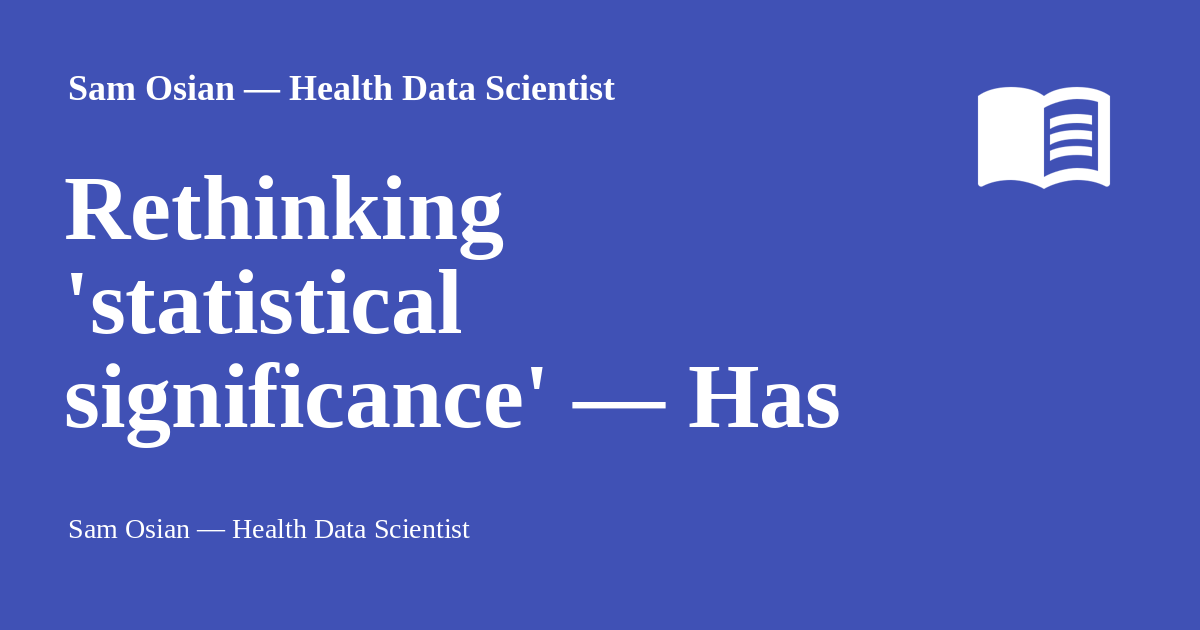
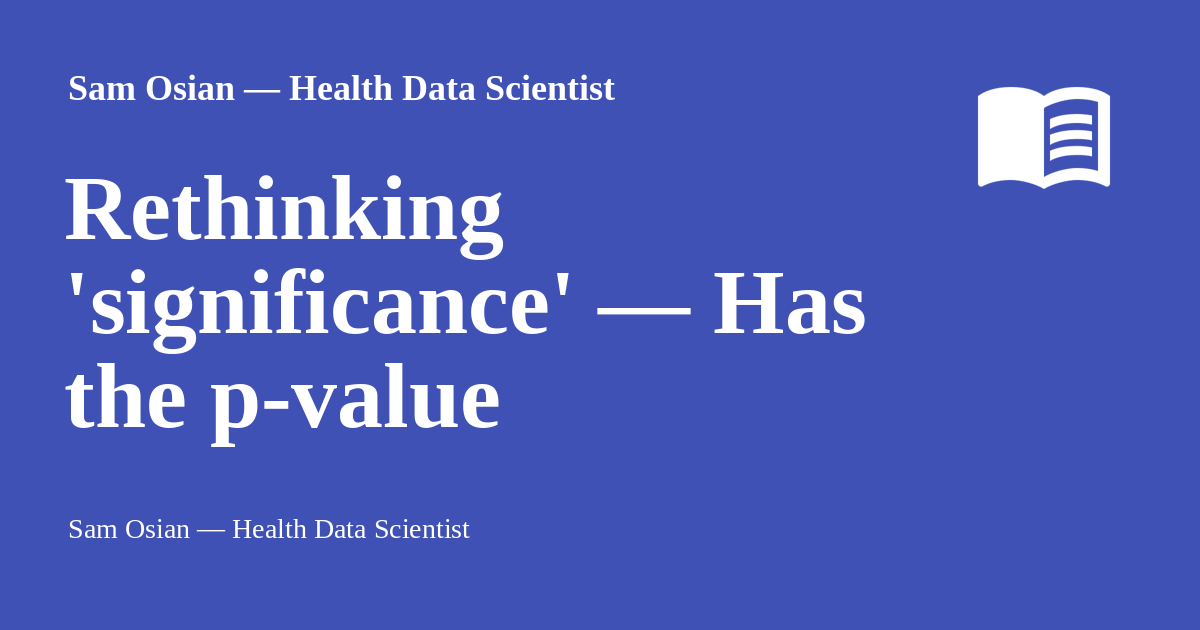
Deployed c87611d with MkDocs version: 1.6.1

diff --git a/rethinking-significance/index.html b/rethinking-significance/index.html
@@ -12,27 +12,27 @@
         <meta name="author" content="Sam Osian">
       
       
-        <link rel="canonical" href="https://sam-osian.com/2025/07/14/rethinking-statistical-significance/">
+        <link rel="canonical" href="https://sam-osian.com/rethinking-significance/">
       
       
       
       
-        <link rel="alternate" type="application/rss+xml" title="RSS feed" href="../../../../feed_rss_created.xml">
-        <link rel="alternate" type="application/rss+xml" title="RSS feed of updated content" href="../../../../feed_rss_updated.xml">
+        <link rel="alternate" type="application/rss+xml" title="RSS feed" href="../feed_rss_created.xml">
+        <link rel="alternate" type="application/rss+xml" title="RSS feed of updated content" href="../feed_rss_updated.xml">
       
-      <link rel="icon" href="../../../../favicon.png">
+      <link rel="icon" href="../favicon.png">
       <meta name="generator" content="mkdocs-1.6.1, mkdocs-material-9.6.15">
     
     
       
-        <title>Rethinking 'statistical significance' — Has the p-value overstayed its welcome? - Sam Osian — Health Data Scientist</title>
+        <title>Rethinking 'significance' — Has the p-value overstayed its welcome? - Sam Osian — Health Data Scientist</title>
       
     
     
-      <link rel="stylesheet" href="../../../../assets/stylesheets/main.342714a4.min.css">
+      <link rel="stylesheet" href="../assets/stylesheets/main.342714a4.min.css">
       
         
-        <link rel="stylesheet" href="../../../../assets/stylesheets/palette.06af60db.min.css">
+        <link rel="stylesheet" href="../assets/stylesheets/palette.06af60db.min.css">
       
       
 
@@ -51,9 +51,9 @@
       
     
     
-      <link rel="stylesheet" href="../../../../stylesheets/extra.css">
+      <link rel="stylesheet" href="../stylesheets/extra.css">
     
-    <script>__md_scope=new URL("../../../..",location),__md_hash=e=>[...e].reduce(((e,_)=>(e<<5)-e+_.charCodeAt(0)),0),__md_get=(e,_=localStorage,t=__md_scope)=>JSON.parse(_.getItem(t.pathname+"."+e)),__md_set=(e,_,t=localStorage,a=__md_scope)=>{try{t.setItem(a.pathname+"."+e,JSON.stringify(_))}catch(e){}}</script>
+    <script>__md_scope=new URL("..",location),__md_hash=e=>[...e].reduce(((e,_)=>(e<<5)-e+_.charCodeAt(0)),0),__md_get=(e,_=localStorage,t=__md_scope)=>JSON.parse(_.getItem(t.pathname+"."+e)),__md_set=(e,_,t=localStorage,a=__md_scope)=>{try{t.setItem(a.pathname+"."+e,JSON.stringify(_))}catch(e){}}</script>
     
       
 
@@ -64,7 +64,7 @@
       
         <meta  property="og:type"  content="website" >
       
-        <meta  property="og:title"  content="Rethinking 'statistical significance' — Has the p-value overstayed its welcome? - Sam Osian — Health Data Scientist" >
+        <meta  property="og:title"  content="Rethinking 'significance' — Has the p-value overstayed its welcome? - Sam Osian — Health Data Scientist" >
       
         <meta  property="og:description"  content="Sam Osian — Health Data Scientist" >
       
@@ -76,11 +76,11 @@
       
         <meta  property="og:image:height"  content="630" >
       
-        <meta  property="og:url"  content="https://sam-osian.com/2025/07/14/rethinking-statistical-significance/" >
+        <meta  property="og:url"  content="https://sam-osian.com/rethinking-significance/" >
       
         <meta  name="twitter:card"  content="summary_large_image" >
       
-        <meta  name="twitter:title"  content="Rethinking 'statistical significance' — Has the p-value overstayed its welcome? - Sam Osian — Health Data Scientist" >
+        <meta  name="twitter:title"  content="Rethinking 'significance' — Has the p-value overstayed its welcome? - Sam Osian — Health Data Scientist" >
       
         <meta  name="twitter:description"  content="Sam Osian — Health Data Scientist" >
       
@@ -88,7 +88,7 @@
       
     
     
-   <link href="../../../../assets/stylesheets/glightbox.min.css" rel="stylesheet"/><style>
+   <link href="../assets/stylesheets/glightbox.min.css" rel="stylesheet"/><style>
     html.glightbox-open { overflow: initial; height: 100%; }
     .gslide-title { margin-top: 0px; user-select: text; }
     .gslide-desc { color: #666; user-select: text; }
@@ -97,7 +97,7 @@
     .gdesc-inner { font-size: 0.75rem; }
     body[data-md-color-scheme="slate"] .gdesc-inner { background: var(--md-default-bg-color);}
     body[data-md-color-scheme="slate"] .gslide-title { color: var(--md-default-fg-color);}
-    body[data-md-color-scheme="slate"] .gslide-desc { color: var(--md-default-fg-color);}</style> <script src="../../../../assets/javascripts/glightbox.min.js"></script></head>
+    body[data-md-color-scheme="slate"] .gslide-desc { color: var(--md-default-fg-color);}</style> <script src="../assets/javascripts/glightbox.min.js"></script></head>
   
   
     
@@ -132,7 +132,7 @@
 
 <header class="md-header md-header--shadow" data-md-component="header">
   <nav class="md-header__inner md-grid" aria-label="Header">
-    <a href="../../../.." title="Sam Osian — Health Data Scientist" class="md-header__button md-logo" aria-label="Sam Osian — Health Data Scientist" data-md-component="logo">
+    <a href=".." title="Sam Osian — Health Data Scientist" class="md-header__button md-logo" aria-label="Sam Osian — Health Data Scientist" data-md-component="logo">
       
   
   <svg xmlns="http://www.w3.org/2000/svg" viewBox="0 0 24 24"><path d="M12 21.5c-1.35-.85-3.8-1.5-5.5-1.5-1.65 0-3.35.3-4.75 1.05-.1.05-.15.05-.25.05-.25 0-.5-.25-.5-.5V6c.6-.45 1.25-.75 2-1 1.11-.35 2.33-.5 3.5-.5 1.95 0 4.05.4 5.5 1.5 1.45-1.1 3.55-1.5 5.5-1.5 1.17 0 2.39.15 3.5.5.75.25 1.4.55 2 1v14.6c0 .25-.25.5-.5.5-.1 0-.15 0-.25-.05-1.4-.75-3.1-1.05-4.75-1.05-1.7 0-4.15.65-5.5 1.5M12 8v11.5c1.35-.85 3.8-1.5 5.5-1.5 1.2 0 2.4.15 3.5.5V7c-1.1-.35-2.3-.5-3.5-.5-1.7 0-4.15.65-5.5 1.5m1 3.5c1.11-.68 2.6-1 4.5-1 .91 0 1.76.09 2.5.28V9.23c-.87-.15-1.71-.23-2.5-.23q-2.655 0-4.5.84zm4.5.17c-1.71 0-3.21.26-4.5.79v1.69c1.11-.65 2.6-.99 4.5-.99 1.04 0 1.88.08 2.5.24v-1.5c-.87-.16-1.71-.23-2.5-.23m2.5 2.9c-.87-.16-1.71-.24-2.5-.24-1.83 0-3.33.27-4.5.8v1.69c1.11-.66 2.6-.99 4.5-.99 1.04 0 1.88.08 2.5.24z"/></svg>
@@ -152,7 +152,7 @@
         <div class="md-header__topic" data-md-component="header-topic">
           <span class="md-ellipsis">
             
-              Rethinking 'statistical significance' — Has the p-value overstayed its welcome?
+              Rethinking 'significance' — Has the p-value overstayed its welcome?
             
           </span>
         </div>
@@ -260,7 +260,7 @@
 
 <nav class="md-nav md-nav--primary" aria-label="Navigation" data-md-level="0">
   <label class="md-nav__title" for="__drawer">
-    <a href="../../../.." title="Sam Osian — Health Data Scientist" class="md-nav__button md-logo" aria-label="Sam Osian — Health Data Scientist" data-md-component="logo">
+    <a href=".." title="Sam Osian — Health Data Scientist" class="md-nav__button md-logo" aria-label="Sam Osian — Health Data Scientist" data-md-component="logo">
       
   
   <svg xmlns="http://www.w3.org/2000/svg" viewBox="0 0 24 24"><path d="M12 21.5c-1.35-.85-3.8-1.5-5.5-1.5-1.65 0-3.35.3-4.75 1.05-.1.05-.15.05-.25.05-.25 0-.5-.25-.5-.5V6c.6-.45 1.25-.75 2-1 1.11-.35 2.33-.5 3.5-.5 1.95 0 4.05.4 5.5 1.5 1.45-1.1 3.55-1.5 5.5-1.5 1.17 0 2.39.15 3.5.5.75.25 1.4.55 2 1v14.6c0 .25-.25.5-.5.5-.1 0-.15 0-.25-.05-1.4-.75-3.1-1.05-4.75-1.05-1.7 0-4.15.65-5.5 1.5M12 8v11.5c1.35-.85 3.8-1.5 5.5-1.5 1.2 0 2.4.15 3.5.5V7c-1.1-.35-2.3-.5-3.5-.5-1.7 0-4.15.65-5.5 1.5m1 3.5c1.11-.68 2.6-1 4.5-1 .91 0 1.76.09 2.5.28V9.23c-.87-.15-1.71-.23-2.5-.23q-2.655 0-4.5.84zm4.5.17c-1.71 0-3.21.26-4.5.79v1.69c1.11-.65 2.6-.99 4.5-.99 1.04 0 1.88.08 2.5.24v-1.5c-.87-.16-1.71-.23-2.5-.23m2.5 2.9c-.87-.16-1.71-.24-2.5-.24-1.83 0-3.33.27-4.5.8v1.69c1.11-.66 2.6-.99 4.5-.99 1.04 0 1.88.08 2.5.24z"/></svg>
@@ -282,7 +282,7 @@
   
   
     <li class="md-nav__item md-nav__item--active">
-      <a href="../../../.." class="md-nav__link">
+      <a href=".." class="md-nav__link">
         
   
   
@@ -304,7 +304,7 @@
   
   
     <li class="md-nav__item">
-      <a href="../../../../about/" class="md-nav__link">
+      <a href="../about/" class="md-nav__link">
         
   
   
@@ -326,7 +326,7 @@
   
   
     <li class="md-nav__item">
-      <a href="../../../../publications/" class="md-nav__link">
+      <a href="../publications/" class="md-nav__link">
         
   
   
@@ -348,7 +348,7 @@
   
   
     <li class="md-nav__item">
-      <a href="https://pfdtoolkit.org" class="md-nav__link">
+      <a href="https://pfdtoolkit.org/" class="md-nav__link">
         
   
   
@@ -441,7 +441,7 @@
           <nav class="md-nav md-nav--primary">
             <div class="md-post__back">
               <div class="md-nav__title md-nav__container">
-                <a href="../../../.." class="md-nav__link">
+                <a href=".." class="md-nav__link">
                   <svg xmlns="http://www.w3.org/2000/svg" viewBox="0 0 24 24"><path d="M20 11v2H8l5.5 5.5-1.42 1.42L4.16 12l7.92-7.92L13.5 5.5 8 11z"/></svg>
                   <span class="md-ellipsis">
                     Back to index
@@ -454,7 +454,7 @@
                 
                   <div class="md-profile md-post__profile">
                     <span class="md-author md-author--long">
-                      <img src="../../../../assets/sam.png" alt="Sam Osian">
+                      <img src="../assets/sam.png" alt="Sam Osian">
                     </span>
                     <span class="md-profile__description">
                       <strong>
@@ -481,7 +481,7 @@
                     <li class="md-nav__item">
                       <div class="md-nav__link">
                         <svg xmlns="http://www.w3.org/2000/svg" viewBox="0 0 24 24"><path d="M19 19H5V8h14m-3-7v2H8V1H6v2H5c-1.11 0-2 .89-2 2v14a2 2 0 0 0 2 2h14a2 2 0 0 0 2-2V5a2 2 0 0 0-2-2h-1V1m-1 11h-5v5h5z"/></svg>
-                        <time datetime="2025-07-14 00:00:00+00:00" class="md-ellipsis">July 14, 2025</time>
+                        <time datetime="2025-07-15 00:00:00+00:00" class="md-ellipsis">July 15, 2025</time>
                       </div>
                     </li>
                     
@@ -517,7 +517,7 @@
 
 
 
-  <h1>Rethinking 'statistical significance' — Has the p-value overstayed its welcome?</h1>
+  <h1>Rethinking 'significance' — Has the p-value overstayed its welcome?</h1>
 
 <p>In research, the p-value is often treated as the ultimate test of truth. But should all statistical analysis be held to the same statistical standard? </p>
 <p>In this post, I argue that the p-value is too often used as a universal yardstick, regardless of context or consequences. Sometimes, what counts as “enough” evidence depends on the risks and decisions at stake, not just on whether a result falls below an arbitrary threshold.</p>
@@ -546,7 +546,7 @@
 <p>Most researchers have felt the frustration of working on a promising project, only for a regression model to return a p-value of, say, <em>0.054</em>. It's frustrating precisely because we <em>know</em> that our results provide moderate evidence towards our research aim, yet they are still “insignificant” for all intents and purposes. </p>
 <p>This leads some researchers to adopt awkward, and sometimes quite comical, phrasing. <a href="https://www.tandfonline.com/doi/full/10.1080/07315724.2018.1461147">One study</a> researching the potential health impacts of green coffee consumption regularly used the phrase “almost statistically significant” to describe their p-values, which hovered around <em>0.06</em>. I’m not criticising the researchers here, but it does show that the gravitational pull of the 0.05 threshold is strong — even when we know, deep down, that reality is rarely so clear-cut.</p>
 <figure>
-<p><a class="glightbox" href="../../../../assets/images/paper-almost-significant.png" data-type="image" data-width="auto" data-height="auto" data-desc-position="bottom"><img alt="alt text" src="../../../../assets/images/paper-almost-significant.png" /></a></p>
+<p><a class="glightbox" href="../assets/images/paper-almost-significant.png" data-type="image" data-width="auto" data-height="auto" data-desc-position="bottom"><img alt="alt text" src="../assets/images/paper-almost-significant.png" /></a></p>
 <figcaption>
 <p>A published research paper using the phrase ‘almost statistically significant’ for p-values just missing the conventional threshold.</p>
 </figcaption>
@@ -554,8 +554,6 @@
 <p>I do want to be transparent here: everything I've said above isn't a novel critique. Many have already been arguing for a more nuanced approach before, particularly in epidemiology where framing of the p-value in terms of providing “low / moderate / strong / very strong” evidence has already started to take hold. </p>
 <p>But still, the checkbox culture persists, especially within the social sciences. We can do better by recognising that the appropriate standard of evidence depends on context — not by pretending that 0.05 has universal applicability.</p>
 <p>In the end, statistics is a tool for making sense of uncertainty, not erasing it. A p-value is just one part of the story. The real work lies in making thoughtful decisions about what evidence means for the world outside the dataset.</p>
-<p><a class="md-button" href="https://x.com/intent/tweet?text=Rethinking%20%27statistical%20significance%27%20%E2%80%94%20Has%20the%20p-value%20overstayed%20its%20welcome%3F%0A&amp;url=https://sam-osian.com/2025/07/14/rethinking-statistical-significance/">Share on <span class="twemoji"><svg xmlns="http://www.w3.org/2000/svg" viewBox="0 0 24 24"><path d="M18.901 1.153h3.68l-8.04 9.19L24 22.846h-7.406l-5.8-7.584-6.638 7.584H.474l8.6-9.83L0 1.154h7.594l5.243 6.932ZM17.61 20.644h2.039L6.486 3.24H4.298Z"/></svg></span></a>
-<a class="md-button" href="https://www.facebook.com/sharer/sharer.php?u=https://sam-osian.com/2025/07/14/rethinking-statistical-significance/">Share on <span class="twemoji"><svg xmlns="http://www.w3.org/2000/svg" viewBox="0 0 24 24"><path d="M9.101 23.691v-7.98H6.627v-3.667h2.474v-1.58c0-4.085 1.848-5.978 5.858-5.978.401 0 .955.042 1.468.103a9 9 0 0 1 1.141.195v3.325a9 9 0 0 0-.653-.036 27 27 0 0 0-.733-.009c-.707 0-1.259.096-1.675.309a1.7 1.7 0 0 0-.679.622c-.258.42-.374.995-.374 1.752v1.297h3.919l-.386 2.103-.287 1.564h-3.246v8.245C19.396 23.238 24 18.179 24 12.044c0-6.627-5.373-12-12-12s-12 5.373-12 12c0 5.628 3.874 10.35 9.101 11.647"/></svg></span></a></p>
 
 
 
@@ -643,12 +641,12 @@
     
     
       
-      <script id="__config" type="application/json">{"base": "../../../..", "features": ["navigation.expand", "navigation.top", "navigation.sections", "navigation.path", "search.suggest", "search.highlight", "content.code.copy", "content.action.edit", "header.autohide", "content.tooltips"], "search": "../../../../assets/javascripts/workers/search.d50fe291.min.js", "tags": null, "translations": {"clipboard.copied": "Copied to clipboard", "clipboard.copy": "Copy to clipboard", "search.result.more.one": "1 more on this page", "search.result.more.other": "# more on this page", "search.result.none": "No matching documents", "search.result.one": "1 matching document", "search.result.other": "# matching documents", "search.result.placeholder": "Type to start searching", "search.result.term.missing": "Missing", "select.version": "Select version"}, "version": null}</script>
+      <script id="__config" type="application/json">{"base": "..", "features": ["navigation.expand", "navigation.top", "navigation.sections", "navigation.path", "search.suggest", "search.highlight", "content.code.copy", "content.action.edit", "header.autohide", "content.tooltips"], "search": "../assets/javascripts/workers/search.d50fe291.min.js", "tags": null, "translations": {"clipboard.copied": "Copied to clipboard", "clipboard.copy": "Copy to clipboard", "search.result.more.one": "1 more on this page", "search.result.more.other": "# more on this page", "search.result.none": "No matching documents", "search.result.one": "1 matching document", "search.result.other": "# matching documents", "search.result.placeholder": "Type to start searching", "search.result.term.missing": "Missing", "select.version": "Select version"}, "version": null}</script>
     
     
-      <script src="../../../../assets/javascripts/bundle.56ea9cef.min.js"></script>
+      <script src="../assets/javascripts/bundle.56ea9cef.min.js"></script>
       
-        <script src="../../../../assets/scripts/fade-in.js"></script>
+        <script src="../assets/scripts/fade-in.js"></script>
       
     
   <script id="init-glightbox">const lightbox = GLightbox({"touchNavigation": true, "loop": false, "zoomable": true, "draggable": true, "openEffect": "zoom", "closeEffect": "zoom", "slideEffect": "slide"});

diff --git a/index.html b/index.html
@@ -356,7 +356,7 @@
   
   
     <li class="md-nav__item">
-      <a href="https://pfdtoolkit.org" class="md-nav__link">
+      <a href="https://pfdtoolkit.org/" class="md-nav__link">
         
   
   
@@ -425,7 +425,7 @@
     <div class="md-post__meta md-meta">
       <ul class="md-meta__list">
         <li class="md-meta__item">
-          <time datetime="2025-07-14 00:00:00+00:00">July 14, 2025</time></li>
+          <time datetime="2025-07-15 00:00:00+00:00">July 15, 2025</time></li>
         
         
           
@@ -440,14 +440,14 @@
     </div>
   </header>
   <div class="md-post__content md-typeset">
-    <h2 id="rethinking-statistical-significance-has-the-p-value-overstayed-its-welcome"><a class="toclink" href="2025/07/14/rethinking-statistical-significance/">Rethinking 'statistical significance' — Has the p-value overstayed its welcome?</a></h2>
+    <h2 id="rethinking-significance-has-the-p-value-overstayed-its-welcome"><a class="toclink" href="rethinking-significance/">Rethinking 'significance' — Has the p-value overstayed its welcome?</a></h2>
 <p>In research, the p-value is often treated as the ultimate test of truth. But should all statistical analysis be held to the same statistical standard? </p>
 <p>In this post, I argue that the p-value is too often used as a universal yardstick, regardless of context or consequences. Sometimes, what counts as “enough” evidence depends on the risks and decisions at stake, not just on whether a result falls below an arbitrary threshold.</p>
 <p><img alt="Is significance just?" src="https://videos.openai.com/vg-assets/assets%2Ftask_01jzwvhes2f7vs6e1qw9dpfjsr%2F1752241428_img_0.webp?st=2025-07-11T12%3A15%3A11Z&amp;se=2025-07-17T13%3A15%3A11Z&amp;sks=b&amp;skt=2025-07-11T12%3A15%3A11Z&amp;ske=2025-07-17T13%3A15%3A11Z&amp;sktid=a48cca56-e6da-484e-a814-9c849652bcb3&amp;skoid=aa5ddad1-c91a-4f0a-9aca-e20682cc8969&amp;skv=2019-02-02&amp;sv=2018-11-09&amp;sr=b&amp;sp=r&amp;spr=https%2Chttp&amp;sig=Ls0ySDsQcQ2gyn9LvYhWVylTiInT8siN3HzSbDMMY1c%3D&amp;az=oaivgprodscus" width="600" /></p>
 
     
       <nav class="md-post__action">
-        <a href="2025/07/14/rethinking-statistical-significance/">
+        <a href="rethinking-significance/">
           Continue reading
         </a>
       </nav>

diff --git a/publications/index.html b/publications/index.html
@@ -354,7 +354,7 @@
   
   
     <li class="md-nav__item">
-      <a href="https://pfdtoolkit.org" class="md-nav__link">
+      <a href="https://pfdtoolkit.org/" class="md-nav__link">
         
   
   
@@ -404,7 +404,6 @@
 
 
 <h1 id="content-coming-soon">Content coming soon ✨<a class="headerlink" href="#content-coming-soon" title="Permanent link">&para;</a></h1>
-<p><a class="glightbox" href="../assets/images/missing_content.jpeg" data-type="image" data-width="auto" data-height="auto" data-desc-position="bottom"><img alt="Missing content" src="../assets/images/missing_content.jpeg" /></a></p>
 
 
 

diff --git a/404.html b/404.html
@@ -300,7 +300,7 @@
   
   
     <li class="md-nav__item">
-      <a href="https://pfdtoolkit.org" class="md-nav__link">
+      <a href="https://pfdtoolkit.org/" class="md-nav__link">
         
   
   

diff --git a/about/index.html b/about/index.html
@@ -397,7 +397,7 @@
   
   
     <li class="md-nav__item">
-      <a href="https://pfdtoolkit.org" class="md-nav__link">
+      <a href="https://pfdtoolkit.org/" class="md-nav__link">
         
   
   
